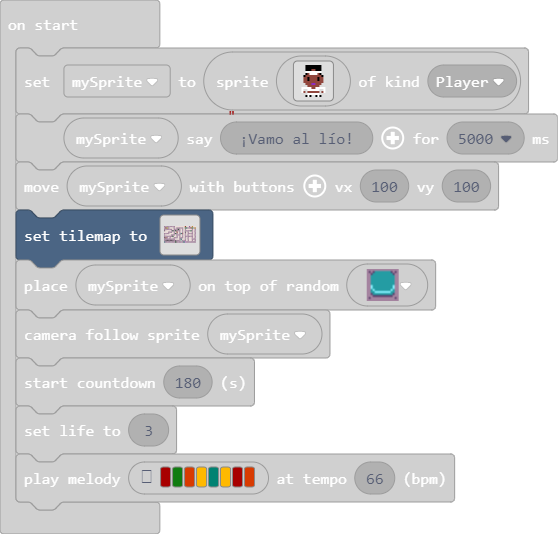
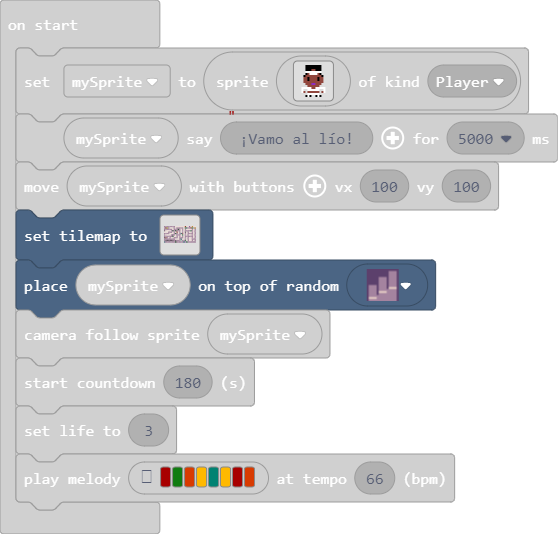
Update main.blocks, main.ts

Changed region(s): [[0.0, 0.4794, 0.7921, 0.5993]]

diff --git a/main.ts b/main.ts
@@ -221,7 +221,7 @@ mySprite = sprites.create(img`
 mySprite.say("¡Vamo al lío!", 5000)
 controller.moveSprite(mySprite, 100, 100)
 tiles.setTilemap(tiles.createTilemap(
[2 lines of base64/hex data omitted]
             img`
 . . . . . . . . 2 2 2 2 2 2 2 2 2 2 . 2 . 2 2 
 . 2 . . 2 2 2 . 2 . . . . . 2 . . . . 2 . 2 2 
@@ -234,12 +234,12 @@ tiles.setTilemap(tiles.createTilemap(
 2 . 2 2 . 2 2 . . . 2 . . . 2 . 2 . 2 2 . 2 . 
 . . . . . . . . 2 2 2 . 2 2 2 . 2 . 2 2 . . . 
 . 2 2 2 2 2 2 . 2 . . . . . . . 2 . 2 2 2 2 . 
-2 . . . . . . . 2 . 2 . . . 2 . . . . . . . . 
+2 . . . . . . . 2 . . . . . 2 . . . . . . . . 
 `,
             [myTiles.tile0,sprites.builtin.brick,sprites.vehicle.roadHorizontal,sprites.vehicle.roadIntersection1,sprites.vehicle.roadVertical,sprites.vehicle.roadTurn4,sprites.dungeon.floorLight1,sprites.dungeon.floorDark3,sprites.dungeon.stairEast,sprites.dungeon.stairLarge,sprites.dungeon.stairNorth,sprites.dungeon.greenSwitchDown,sprites.dungeon.doorClosedNorth,sprites.builtin.forestTiles16,sprites.builtin.crowd5,sprites.vehicle.roadIntersection3,sprites.vehicle.roadTurn1,sprites.vehicle.roadTurn2,sprites.builtin.crowd9,sprites.dungeon.hazardSpike,sprites.vehicle.roadTurn3,sprites.vehicle.roadIntersection2,sprites.castle.saplingOak,sprites.castle.shrub,sprites.castle.rock0,sprites.castle.rock2,sprites.castle.rock1,sprites.vehicle.roadIntersection4,sprites.castle.saplingPine,sprites.builtin.crowd1,sprites.builtin.crowd0,sprites.dungeon.buttonTeal,sprites.dungeon.hazardWater,sprites.dungeon.hazardHole,sprites.dungeon.chestClosed,sprites.dungeon.purpleSwitchDown,myTiles.tile1,sprites.dungeon.stairLadder,sprites.builtin.forestTiles0,sprites.dungeon.chestOpen,sprites.dungeon.collectibleRedCrystal,sprites.dungeon.collectibleInsignia,myTiles.tile2,myTiles.tile3,myTiles.tile4,myTiles.tile5,myTiles.tile6,myTiles.tile7,myTiles.tile8,sprites.builtin.crowd4,sprites.builtin.crowd2,sprites.builtin.crowd6,sprites.builtin.crowd7,sprites.dungeon.stairWest],
             TileScale.Sixteen
         ))
-tiles.placeOnRandomTile(mySprite, sprites.dungeon.buttonTeal)
+tiles.placeOnRandomTile(mySprite, sprites.dungeon.stairLarge)
 scene.cameraFollowSprite(mySprite)
 info.startCountdown(180)
 info.setLife(3)
